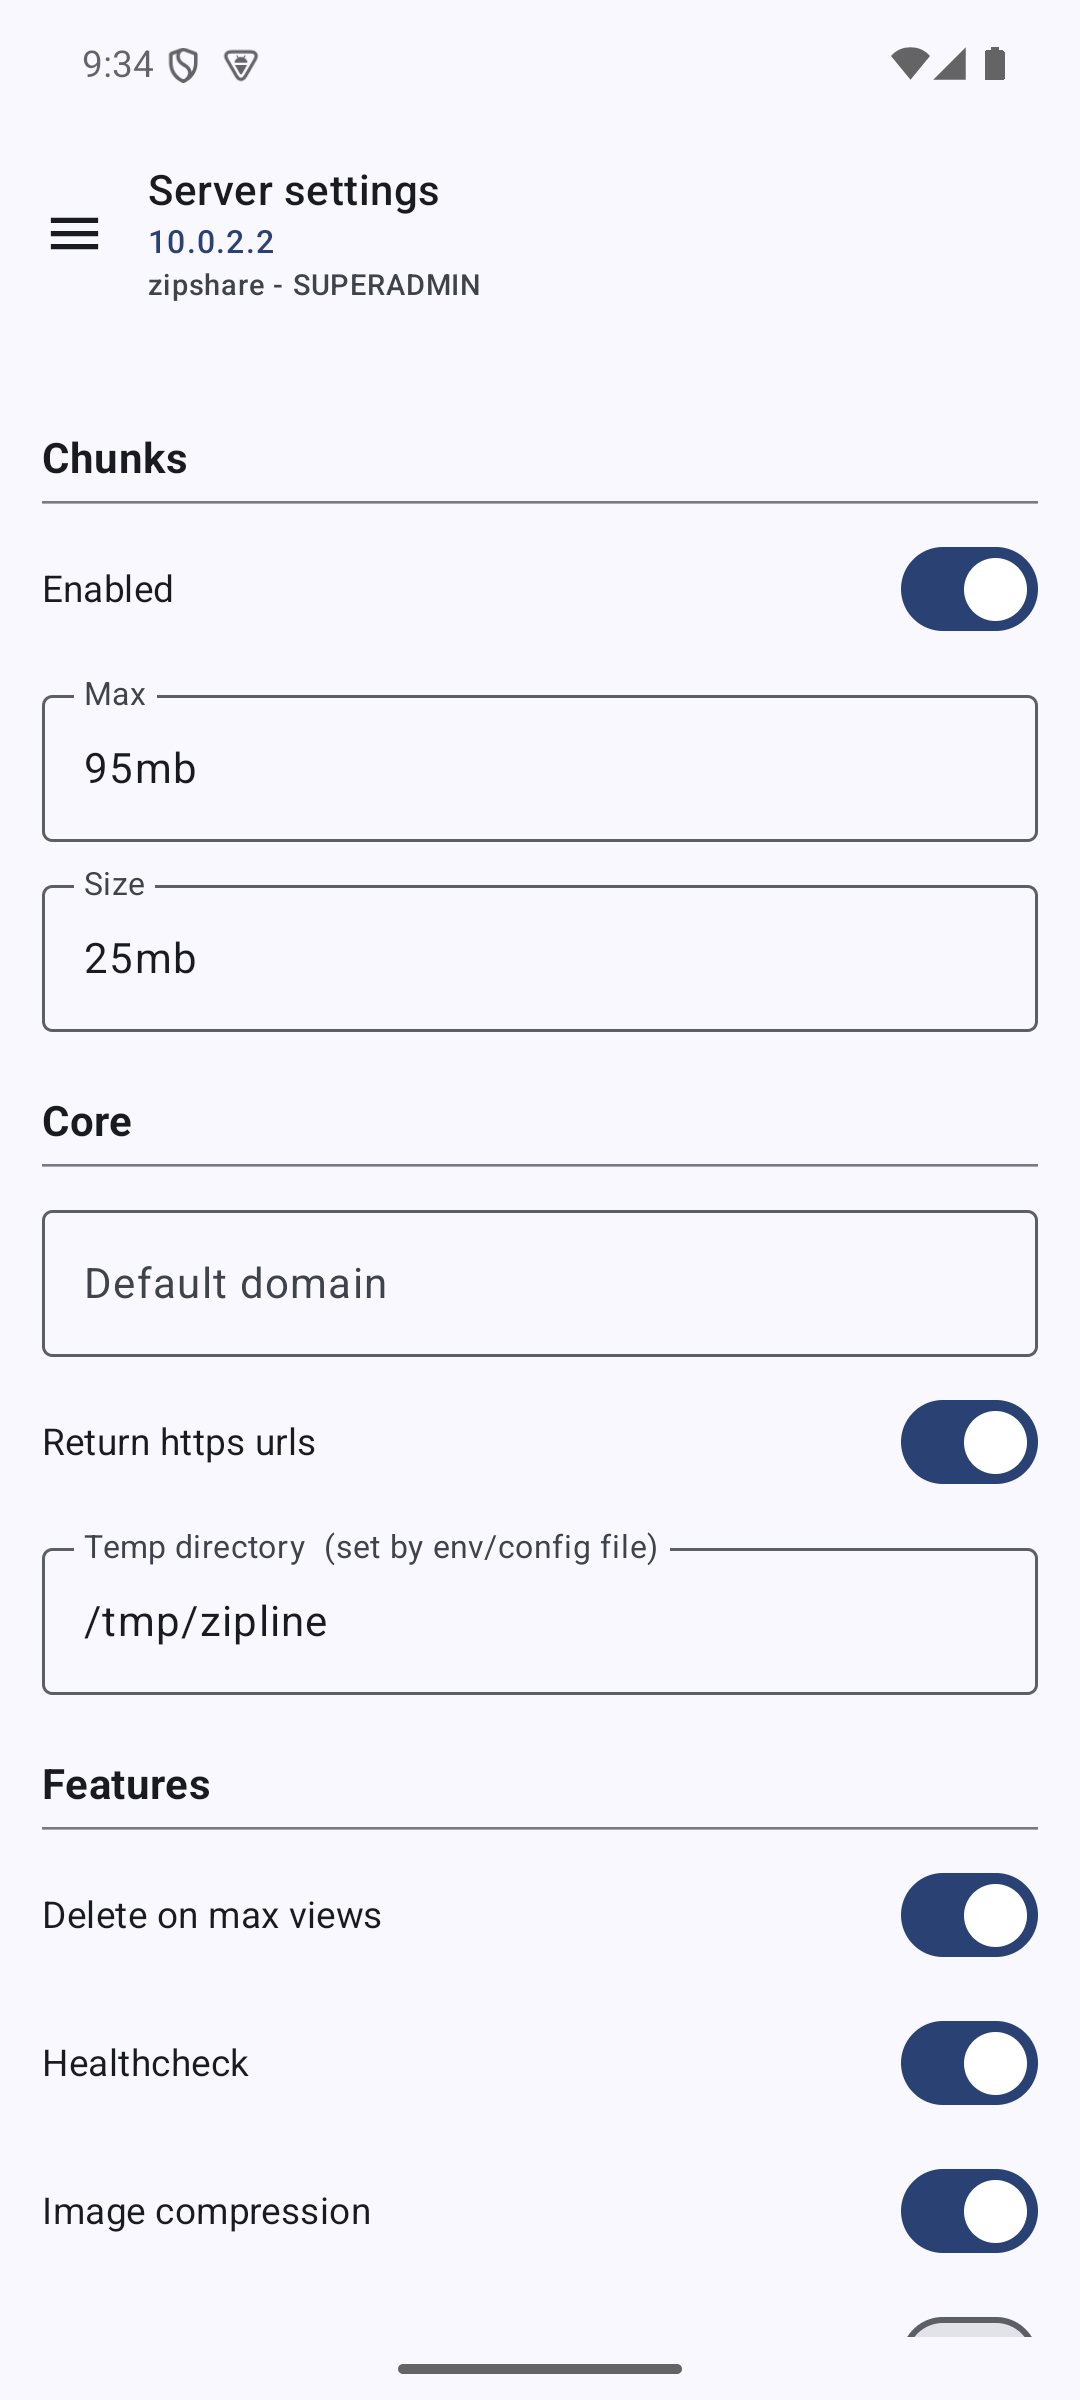
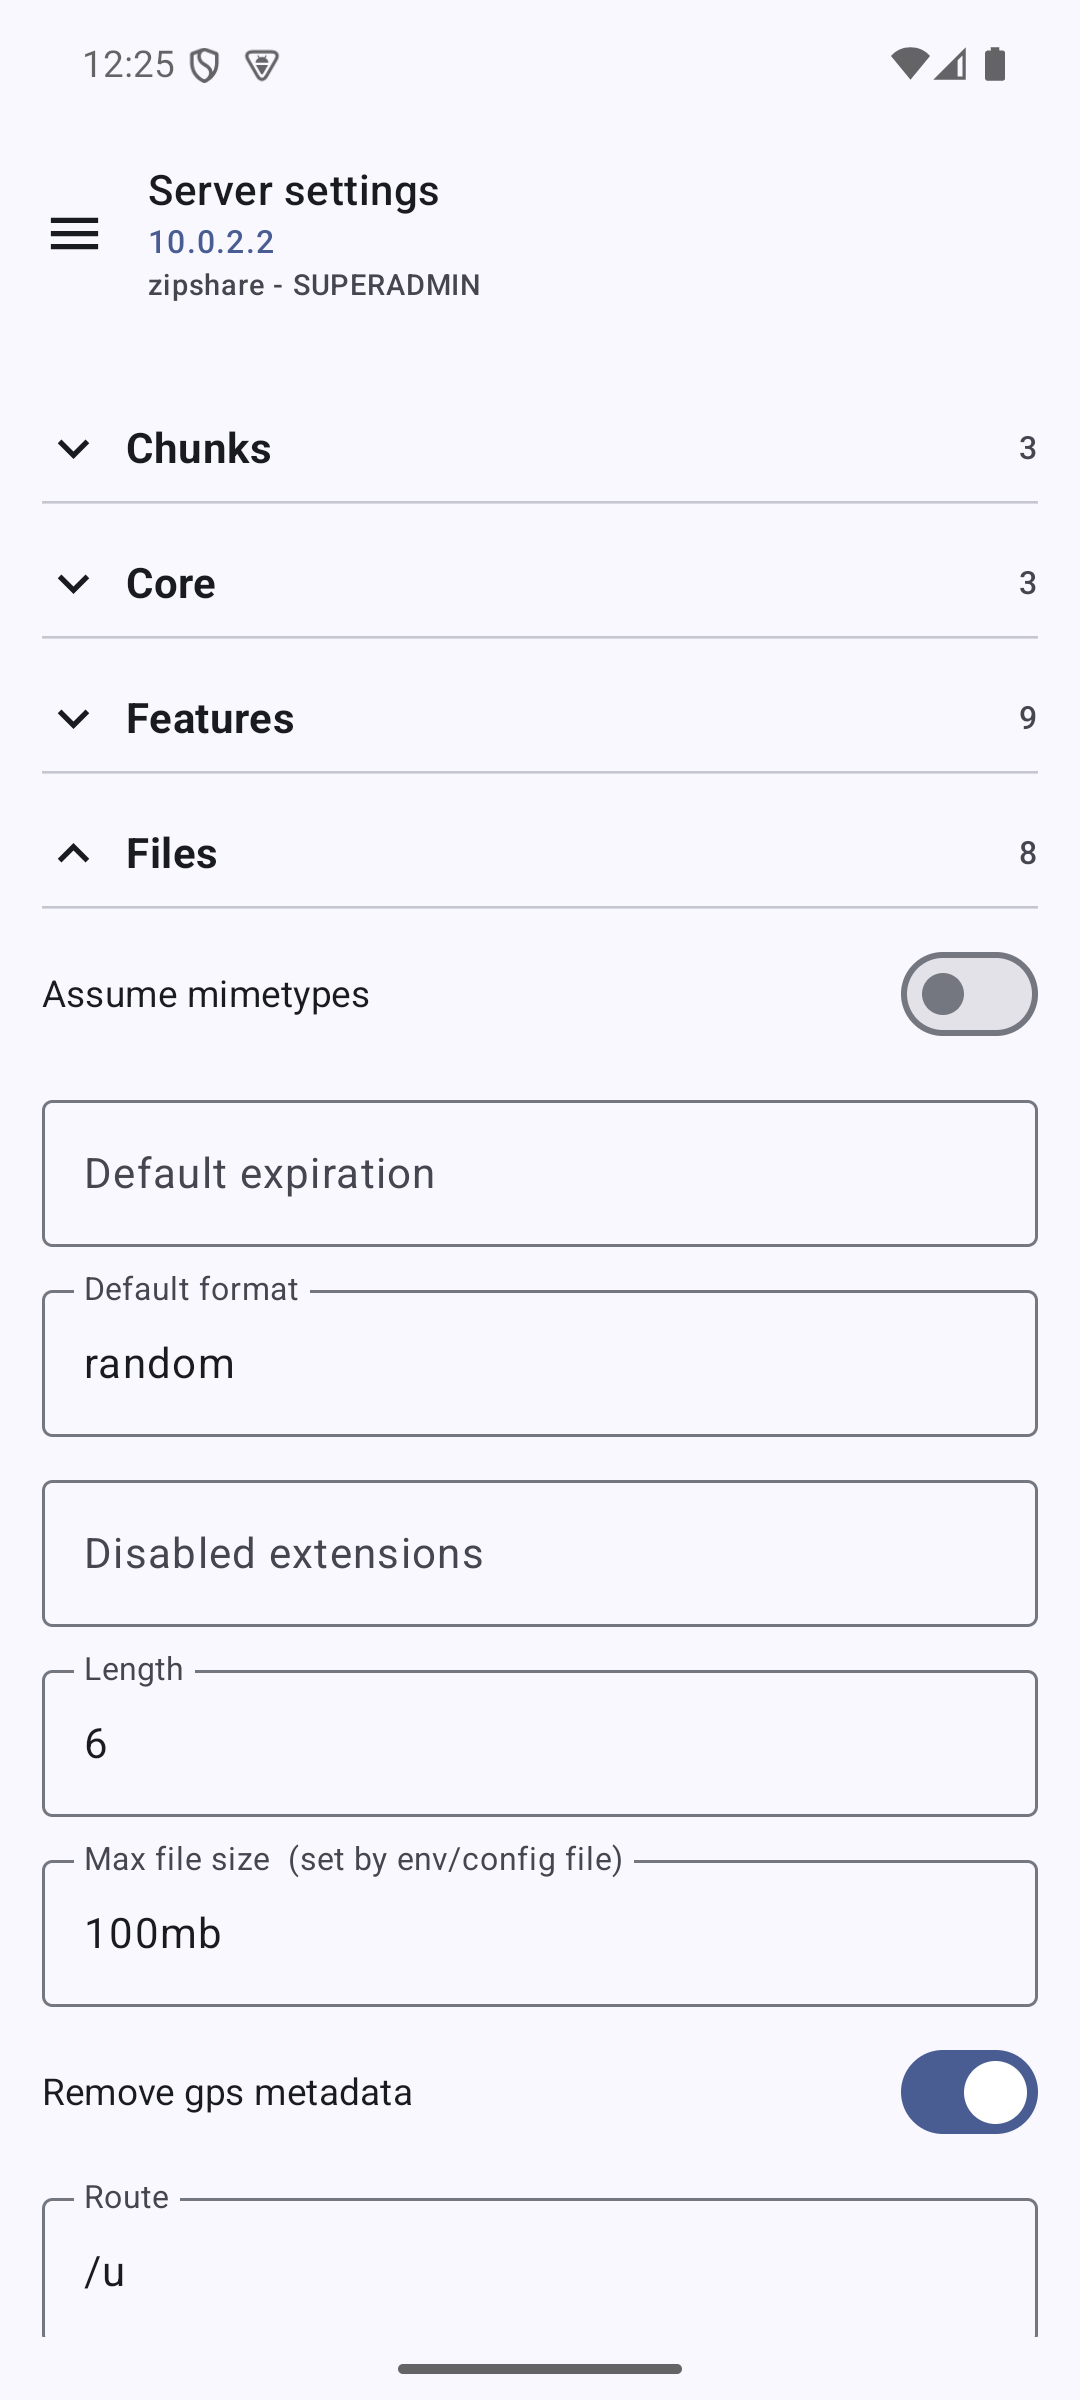
Collapse admin server-settings groups into dropdowns
- Each group (Chunks, Core, Files, ...) is a collapsible header, closed by default
- Header shows the field count, or a badge with the unsaved-change count
- Chunks caveat text only renders when that group is open
- Retake 22-server-settings.png

diff --git a/app/src/main/java/dev/zipshare/ui/admin/ServerSettingsScreen.kt b/app/src/main/java/dev/zipshare/ui/admin/ServerSettingsScreen.kt
@@ -1,5 +1,6 @@
 package dev.zipshare.ui.admin
 
+import androidx.compose.foundation.clickable
 import androidx.compose.foundation.layout.Arrangement
 import androidx.compose.foundation.layout.Column
 import androidx.compose.foundation.layout.PaddingValues
@@ -11,8 +12,11 @@ import androidx.compose.foundation.lazy.LazyColumn
 import androidx.compose.foundation.lazy.items
 import androidx.compose.foundation.text.KeyboardOptions
 import androidx.compose.material.icons.Icons
+import androidx.compose.material.icons.filled.ExpandLess
+import androidx.compose.material.icons.filled.ExpandMore
 import androidx.compose.material.icons.filled.Save
 import androidx.compose.material3.AlertDialog
+import androidx.compose.material3.Badge
 import androidx.compose.material3.ExtendedFloatingActionButton
 import androidx.compose.material3.HorizontalDivider
 import androidx.compose.material3.Icon
@@ -28,6 +32,7 @@ import androidx.compose.material3.TextButton
 import androidx.compose.runtime.Composable
 import androidx.compose.runtime.LaunchedEffect
 import androidx.compose.runtime.getValue
+import androidx.compose.runtime.mutableStateMapOf
 import androidx.compose.runtime.mutableStateOf
 import androidx.compose.runtime.remember
 import androidx.compose.runtime.setValue
@@ -98,34 +103,37 @@ fun ServerSettingsScreen(onMenu: () -> Unit, vm: AdminViewModel = hiltViewModel(
                 EmptyOrError("Could not read server settings. This needs a superadmin token.")
             } else {
                 val grouped = state.settings.groupBy { it.group }
+                // Collapsed by default. Zipline returns ~100 keys across a dozen groups, which as
+                // one flat list is a wall of fields you have to scroll past to reach anything.
+                val expanded = remember { mutableStateMapOf<String, Boolean>() }
+
                 LazyColumn(Modifier.fillMaxSize(), contentPadding = PaddingValues(16.dp)) {
                     grouped.forEach { (group, entries) ->
+                        val open = expanded[group] == true
                         item(key = "hdr-$group") {
-                            Column(Modifier.padding(top = 18.dp, bottom = 4.dp)) {
-                                Text(
-                                    groupTitle(group),
-                                    style = MaterialTheme.typography.titleMedium,
-                                    fontWeight = FontWeight.Bold,
-                                )
+                            GroupHeader(
+                                title = groupTitle(group),
+                                count = entries.size,
+                                dirty = entries.count { it.dirty },
+                                expanded = open,
                                 // Only this group needs the caveat. A blanket note would be
                                 // wrong: limits like max file size do apply to this app.
-                                if (group.equals("chunks", ignoreCase = true)) {
-                                    Text(
-                                        "These control the web dashboard's uploader. ZipShare " +
-                                            "uses its own values under Settings > Chunked upload.",
-                                        style = MaterialTheme.typography.bodySmall,
-                                        color = MaterialTheme.colorScheme.onSurfaceVariant,
-                                        modifier = Modifier.padding(top = 2.dp),
-                                    )
-                                }
-                                HorizontalDivider(Modifier.padding(top = 4.dp))
-                            }
-                        }
-                        items(entries, key = { it.key }) { entry ->
-                            SettingRow(
-                                entry = entry,
-                                onChange = { vm.editSetting(entry.key, it) },
+                                note = if (group.equals("chunks", ignoreCase = true)) {
+                                    "These control the web dashboard's uploader. ZipShare " +
+                                        "uses its own values under Settings > Chunked upload."
+                                } else {
+                                    null
+                                },
+                                onToggle = { expanded[group] = !open },
                             )
+                        }
+                        if (open) {
+                            items(entries, key = { it.key }) { entry ->
+                                SettingRow(
+                                    entry = entry,
+                                    onChange = { vm.editSetting(entry.key, it) },
+                                )
+                            }
                         }
                     }
                 }
@@ -162,6 +170,62 @@ fun ServerSettingsScreen(onMenu: () -> Unit, vm: AdminViewModel = hiltViewModel(
             },
             dismissButton = { TextButton(onClick = { confirmSave = false }) { Text("Cancel") } },
         )
+    }
+}
+
+/**
+ * Collapsible section header for one settings group.
+ *
+ * The whole row is the toggle rather than just the chevron - a 24 dp icon is a poor target when
+ * the row is already there.
+ */
+@Composable
+private fun GroupHeader(
+    title: String,
+    count: Int,
+    dirty: Int,
+    expanded: Boolean,
+    note: String?,
+    onToggle: () -> Unit,
+) {
+    Column(
+        Modifier
+            .fillMaxWidth()
+            .clickable(onClick = onToggle)
+            .padding(top = 14.dp, bottom = 4.dp),
+    ) {
+        Row(verticalAlignment = Alignment.CenterVertically) {
+            Icon(
+                if (expanded) Icons.Filled.ExpandLess else Icons.Filled.ExpandMore,
+                contentDescription = if (expanded) "Collapse $title" else "Expand $title",
+            )
+            Text(
+                title,
+                style = MaterialTheme.typography.titleMedium,
+                fontWeight = FontWeight.Bold,
+                modifier = Modifier.padding(start = 8.dp).weight(1f),
+            )
+            // Without this an edit inside a collapsed group is invisible while the save button
+            // still counts it, which reads as the app inventing changes.
+            if (dirty > 0) {
+                Badge { Text("$dirty") }
+            } else {
+                Text(
+                    "$count",
+                    style = MaterialTheme.typography.labelMedium,
+                    color = MaterialTheme.colorScheme.onSurfaceVariant,
+                )
+            }
+        }
+        if (expanded && note != null) {
+            Text(
+                note,
+                style = MaterialTheme.typography.bodySmall,
+                color = MaterialTheme.colorScheme.onSurfaceVariant,
+                modifier = Modifier.padding(top = 4.dp, start = 32.dp),
+            )
+        }
+        HorizontalDivider(Modifier.padding(top = 8.dp))
     }
 }
 
